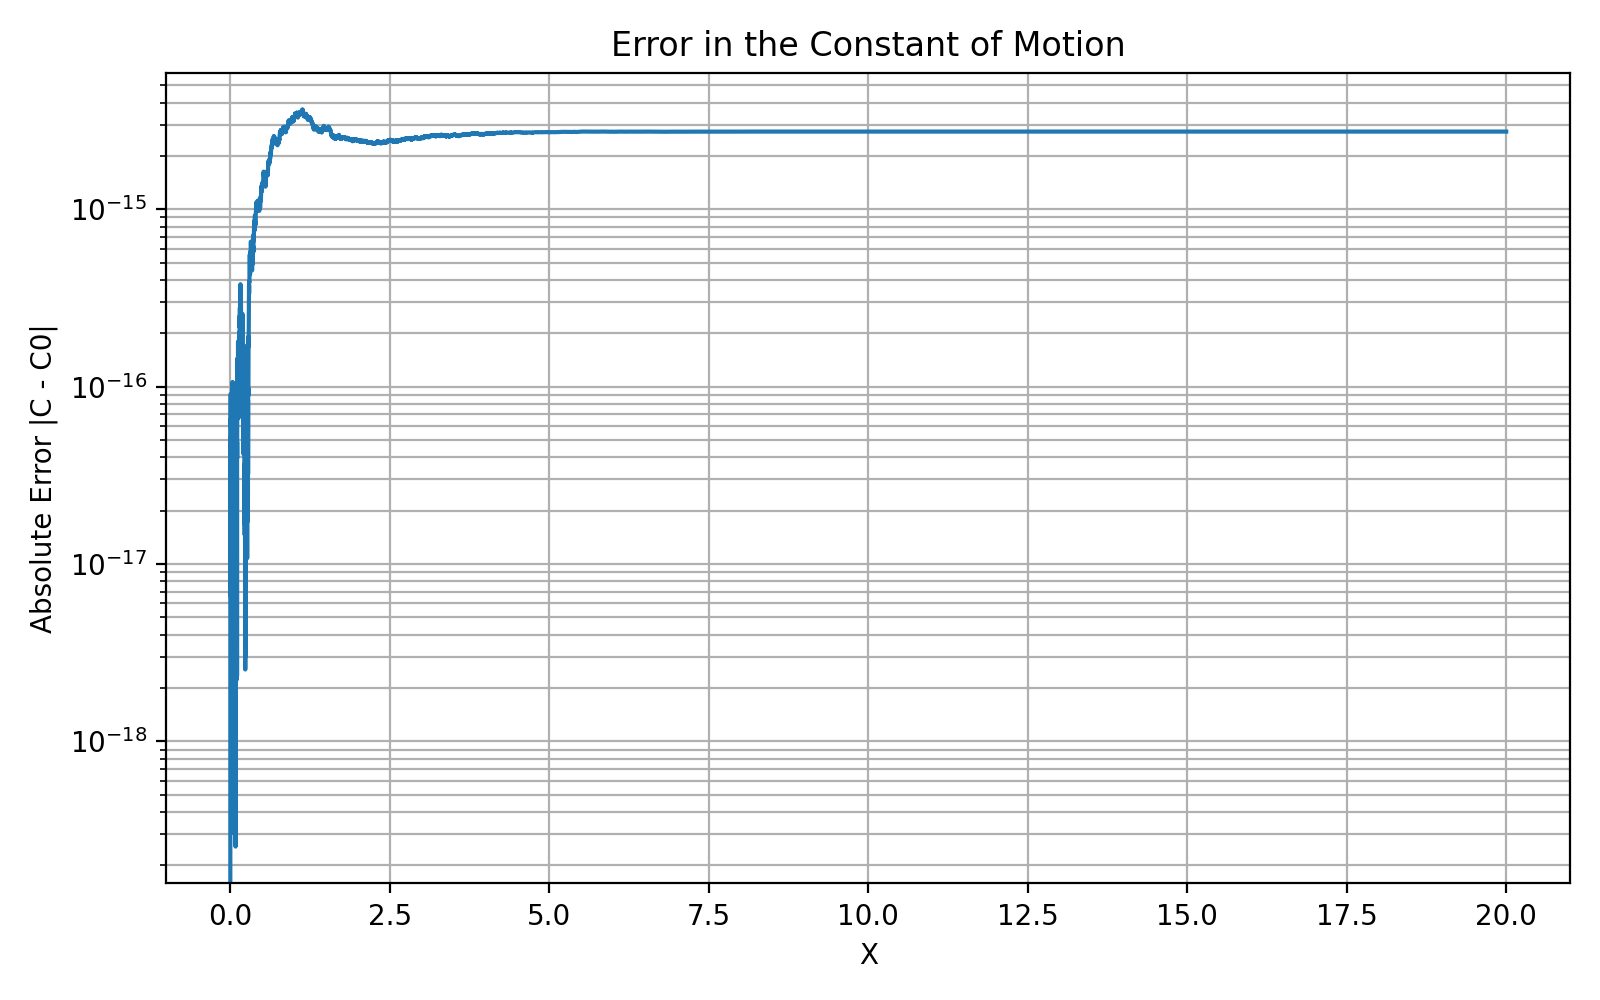
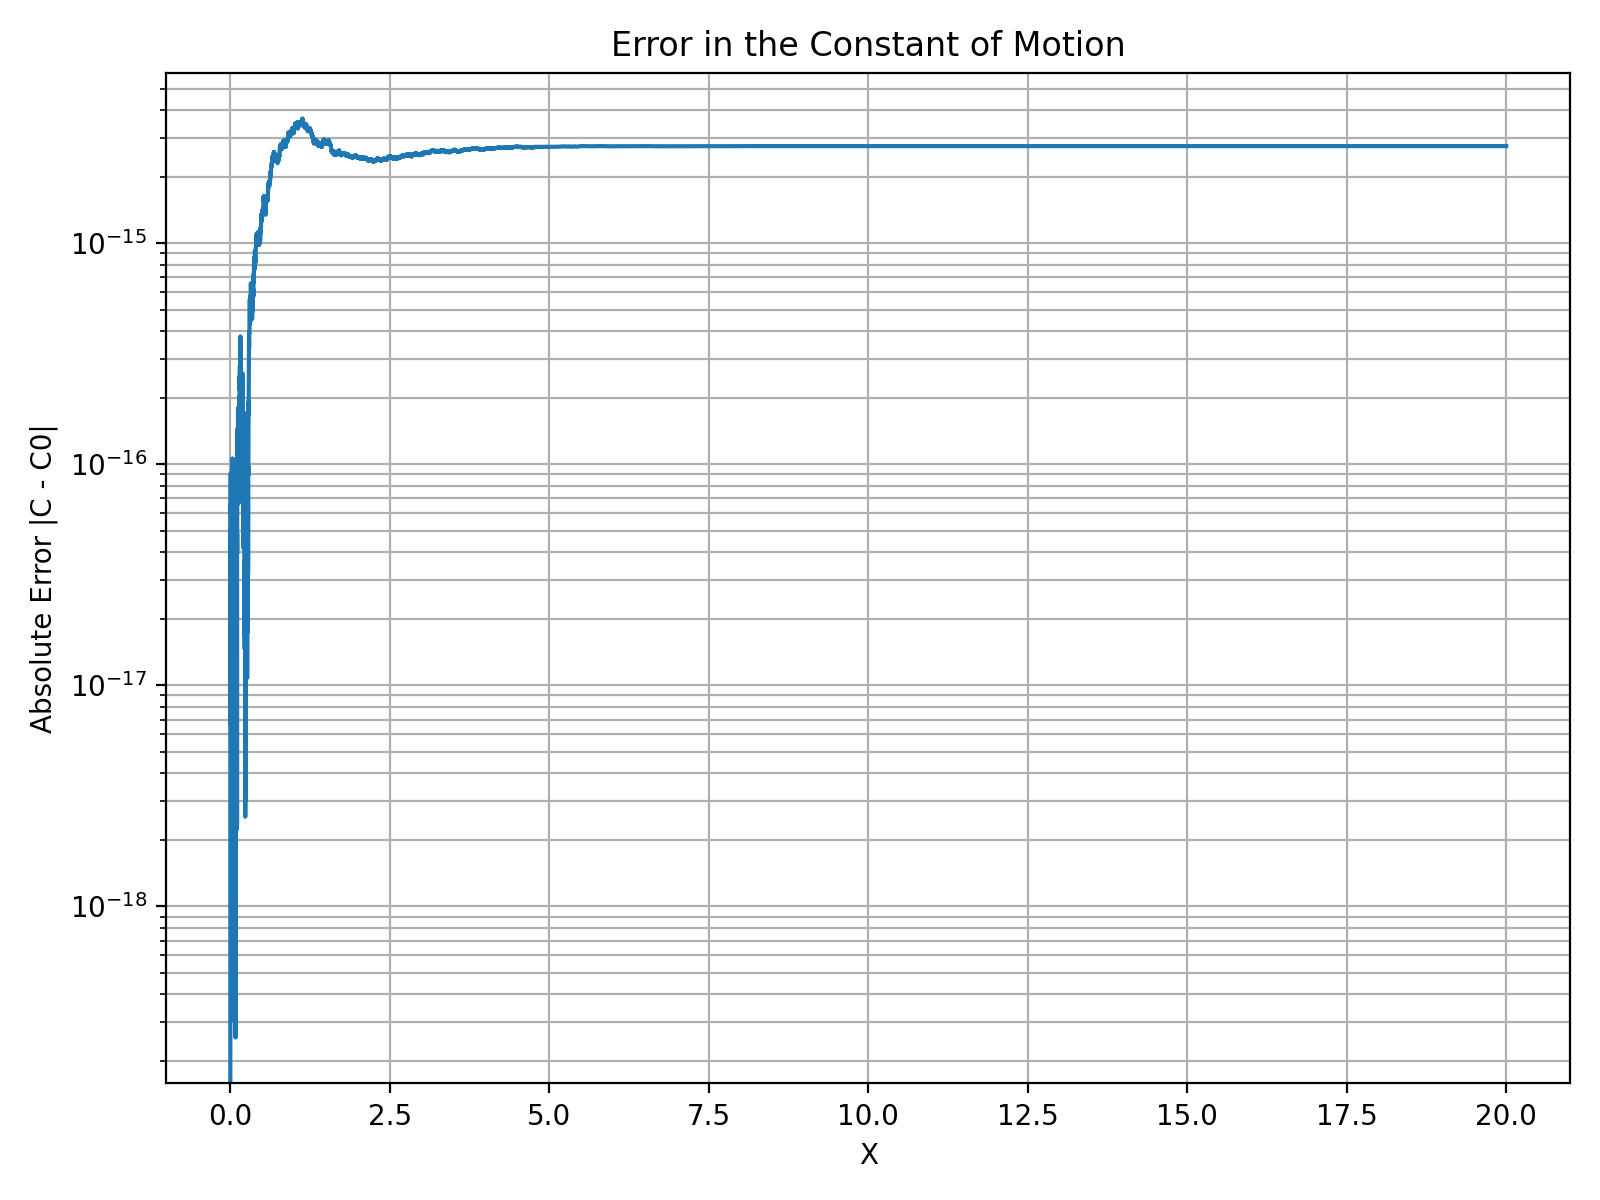
fixed error plot size

diff --git a/plot_kdv.py b/plot_kdv.py
@@ -3,7 +3,7 @@ import matplotlib.pyplot as plt
 
 # Load the data from the kdv_forward_solution.txt file
 # skip the header row
-data = np.loadtxt("kdv_forward_solution.txt", skiprows=1)
+data = np.loadtxt("data_files/kdv_forward_solution.txt", skiprows=1)
 
 # Extract the columns
 # These are the values for the [0, 20] region
@@ -23,7 +23,7 @@ plt.ylabel("f(X)")
 plt.title("Forward Soliton solution f(X) on [0, 20]")
 plt.grid(True)
 plt.tight_layout()
-plt.savefig("f_forward.png", dpi=200)
+plt.savefig("plots/f_forward.png", dpi=200)
 
 
 # Plot C(X)
@@ -37,10 +37,10 @@ plt.title("Constant of Motion C(X)")
 plt.grid(True)
 plt.tight_layout()
 plt.legend()
-plt.savefig("C_of_X.png", dpi=200)
+plt.savefig("plots/C_of_X.png", dpi=200)
 
 # Plot the error of C
-plt.figure(figsize=(8,5))
+plt.figure(figsize=(8,6))
 plt.plot(X, error)
 plt.yscale("log")
 plt.xlabel("X")
@@ -48,7 +48,7 @@ plt.ylabel("Absolute Error |C - C0|") # Since C0 was 0
 plt.title("Error in the Constant of Motion")
 plt.grid(True, which="both")
 plt.tight_layout()
-plt.savefig("C_error.png", dpi=200)
+plt.savefig("plots/C_error.png", dpi=200)
 
 
 
